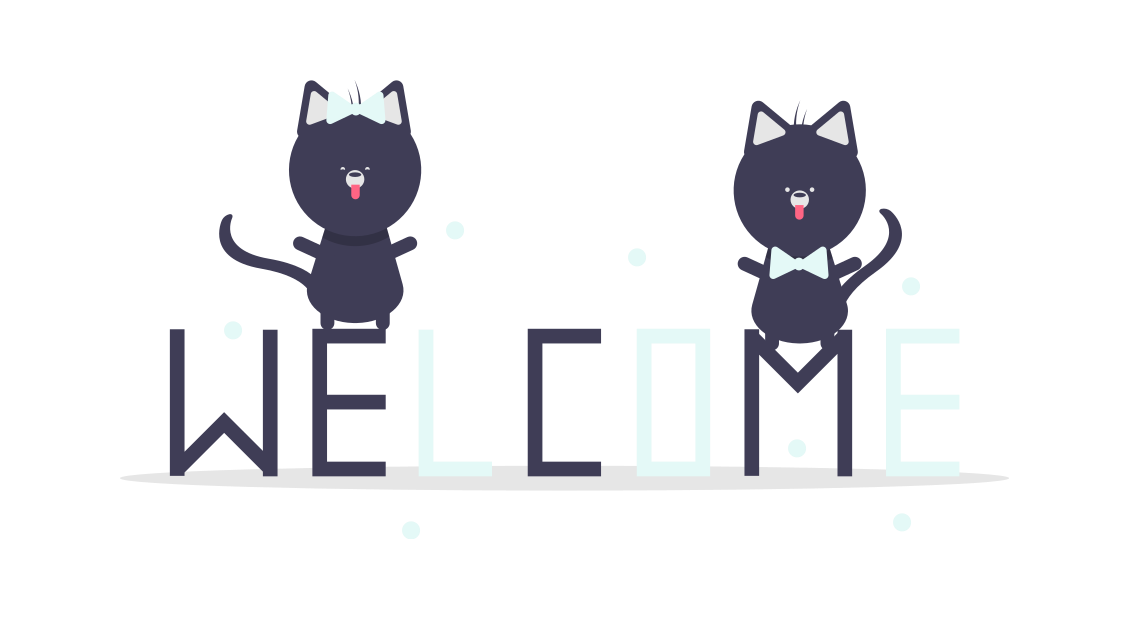
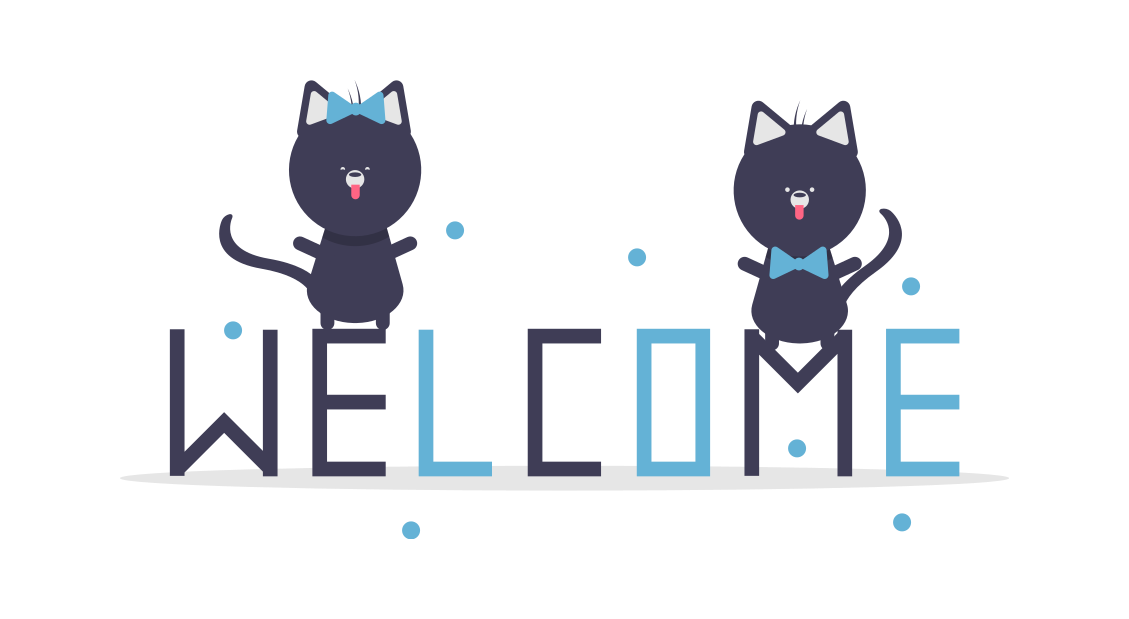
Welcome photo changed, Education photo fixed

diff --git a/src/components/Home.css b/src/components/Home.css
@@ -30,7 +30,7 @@
     align-items: center;
 }
 .left img{
-    width: 720px;
+    width: 730px;
     height: 400px;
     position: relative;
     margin-top: 50px;
@@ -182,7 +182,7 @@
   display: flex;
   align-items: center;
   justify-content: center;
-  max-height: 100vh;
+  /*max-height: 100vh;*/
   width: 100%;
   flex-direction: column;
   background-color: white;
@@ -276,7 +276,7 @@
         flex-direction: column;
     }
     .left{
-        height: 50vh;
+        height: 70vh;
     }
     .right{
         height: 650px;
@@ -363,6 +363,7 @@
       }
       .right{
         height: 650px;
+        padding-top: 30px;
     }
     .point_det{
       grid-template-columns: repeat(1,auto);

diff --git a/src/components/Home.js b/src/components/Home.js
@@ -1,6 +1,6 @@
 import React from 'react'
 import home_style from './Home.css'
-import welocome from './Img/welcome1.png'
+import welocome from './Img/welcome.png'
 import profile from './Img/profile.png'
 import home from './Img/home.png'
 import dob from './Img/dob.png'

diff --git a/src/components/Education.css b/src/components/Education.css
@@ -180,7 +180,7 @@
     
     .left_e img{
         height: 73%;
-        margin-top: 50px;
+        margin-top: 80px;
     }
     .right_e{
         margin-top: -10px;
